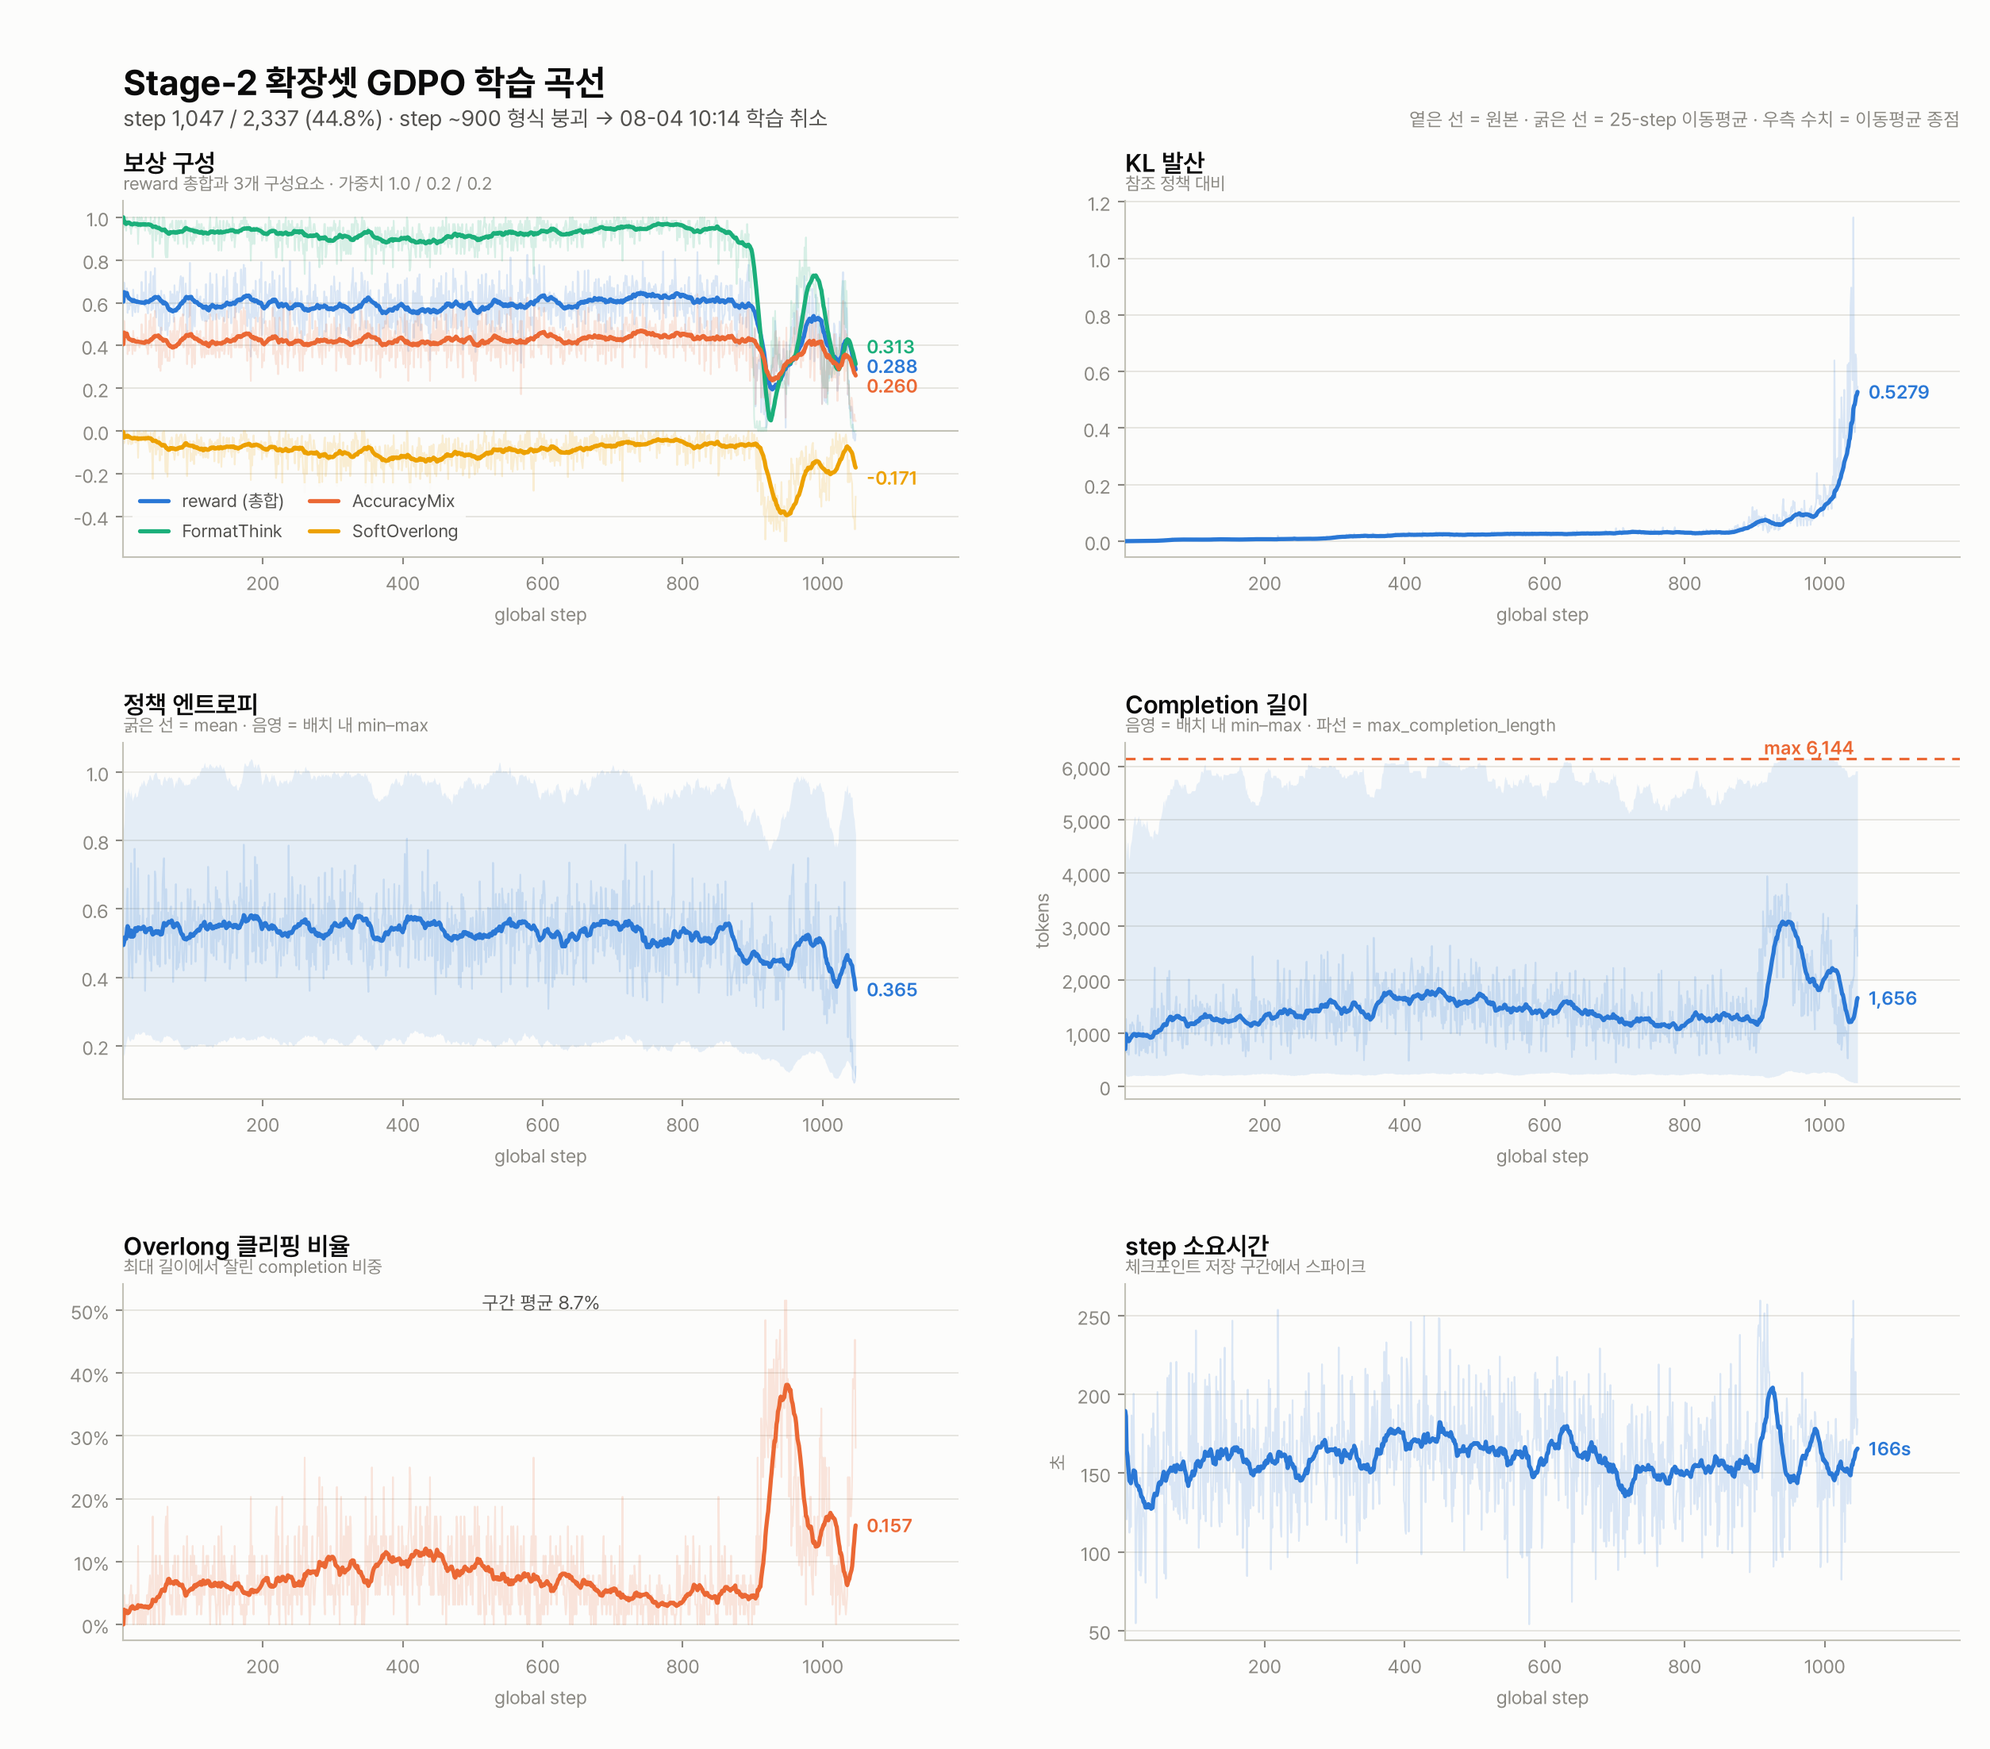
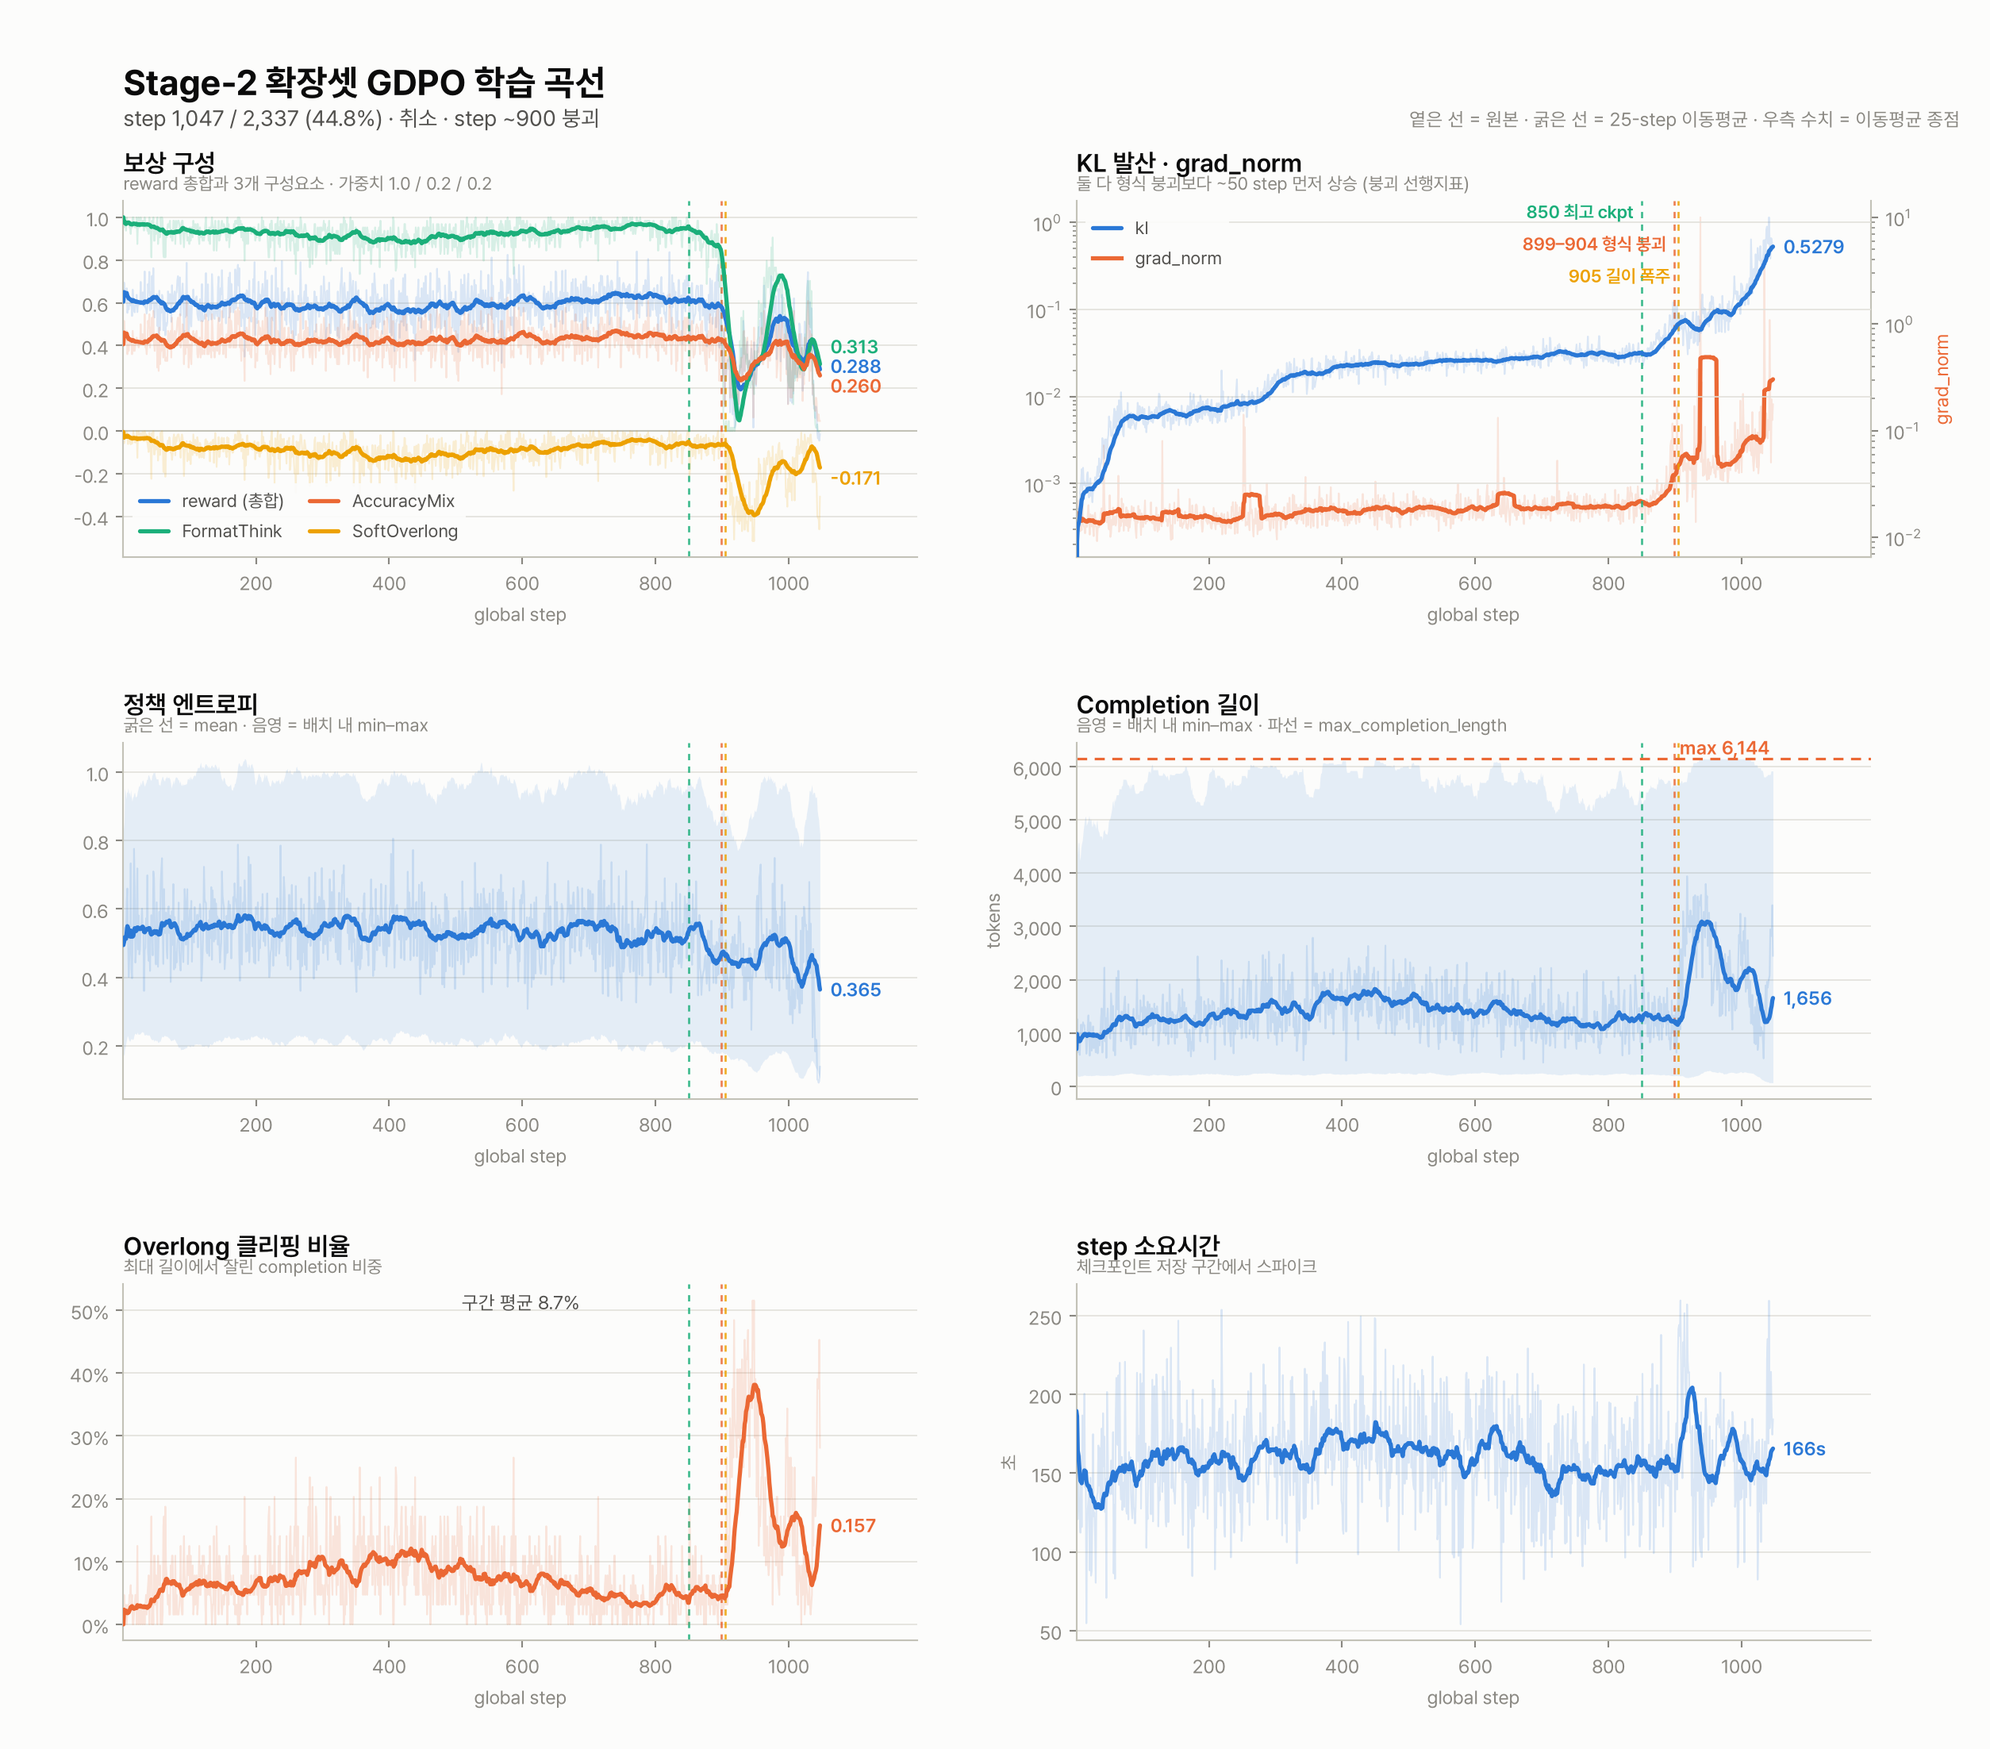
사후분석 rev.2: GDPO 무죄 판정 + 인과 순서 정정 + 학습곡선 갱신
클러스터 접근이 열려 ms-swift `scale_rewards=gdpo` 구현을 직접 판독. 그 결과
초판(rev.1)의 핵심 주장 하나가 틀렸음이 드러나 철회한다.

정정 1 — §4-2(a) "GDPO 가 형식 복원력을 2.3배 증폭" 철회
  · nanstd 는 Bessel 보정(ddof=1) → K=4 이진 σ 는 0.500/0.577 (초판은 모집단 std)
  · 마지막 줄의 배치 전역 whitening 을 놓쳤다 → 절대 크기 증폭이라는 명제 자체가 무효
  · 실제 형식:정확도 재가중은 ±15%. 무시할 수준
  · 산식 역검증 성공: step 903 그룹에 적용 → batch_std 0.86 으로 §8-i ④ 실측
    advantage [+0.12,+0.12,+0.12,-0.35] 와 정확히 일치

정정 2 — §8-i ④ '그룹 균일성 함정' 은 GDPO 고유 문제가 아니다
  · 전원 동일 보상이면 r-r̄=0 → `none` 도 형식 기여 정확히 0
  · GRPO 계열 공통 성질. 실측 표는 유효하되 원인 귀속을 바꾼다
  · gdpo 가 실제로 위험한 곳은 연속값 보상의 near-degenerate 그룹뿐
    (완전 절단 -1.0 → 1.15배 / 한계 초과 -0.02 → 57.7배)

정정 3 — §4-4 인과 순서. 길이 폭주는 원인이 아니라 결과
  · 형식 붕괴(899~904) 시점의 길이·clip 은 정상(629~1,465 토큰, clip 0.016~0.078)
  · 길이 폭주는 step 905 부터 = 형식 붕괴보다 10 step 뒤
  · overlong_filter 는 붕괴 유발(2단계)이 아니라 회복 저지(3단계)로 재배치

신규 §1-5-1 — kl 이 형식 지표보다 ~50 step 먼저 움직인다
  · 700~849 에서 0.031 로 평탄 → 850~899 +137%, 이때 FormatThink 은 아직 0.90
  · 단, KL 은 런 내내 단조 상승(6e-4 → 3e-2)하므로 절대 임계는 오작동한다.
    "직전 150-step 중앙값 대비 2배" 같은 평탄구간 이탈 규칙이어야 한다
  · rewards/FormatThink/std 는 쓰지 말 것 — 이진 보상의 std 는 평균의 결정론적 함수

plot_train_curves.py
  · KL 패널에 grad_norm twin 축 추가. 양축 로그 — grad_norm 은 0.009~10.02 로
    3 decade 를 넘어 선형축이면 step 938 스파이크에 눌려 850~900 상승이 안 보인다
  · 붕괴 사건 마커(850 최고 ckpt / 899~904 형식 붕괴 / 905 길이 폭주), --no-events 로 해제
  · twinx 눈금이 잘려 subplots_adjust right 0.985 → 0.940

Claude-Session: https://claude.ai/code/session_01WGb91PbWg2SmApVpeZFhce

diff --git a/scripts/plot_train_curves.py b/scripts/plot_train_curves.py
@@ -43,7 +43,7 @@ SUMMARY_KEYS = [
 KO = {
     "title": "Stage-2 확장셋 GDPO 학습 곡선", "rewards": "보상 구성",
     "rewards_sub": "reward 총합과 3개 구성요소 · 가중치 1.0 / 0.2 / 0.2",
-    "kl": "KL 발산", "kl_sub": "참조 정책 대비",
+    "kl": "KL 발산 · grad_norm", "kl_sub": "둘 다 형식 붕괴보다 ~50 step 먼저 상승 (붕괴 선행지표)",
     "ent": "정책 엔트로피", "ent_sub": "굵은 선 = mean · 음영 = 배치 내 min–max",
     "len": "Completion 길이", "len_sub": "음영 = 배치 내 min–max · 파선 = max_completion_length",
     "clip": "Overlong 클리핑 비율", "clip_sub": "최대 길이에서 잘린 completion 비중",
@@ -51,11 +51,12 @@ KO = {
     "total": "reward (총합)", "x": "global step", "tokens": "tokens", "sec": "초",
     "note": "옅은 선 = 원본 · 굵은 선 = {w}-step 이동평균 · 우측 수치 = 이동평균 종점",
     "mean_of": "구간 평균 {v}",
+    "ev_best": "850 최고 ckpt", "ev_break": "899–904 형식 붕괴", "ev_len": "905 길이 폭주",
 }
 EN = {
     "title": "Stage-2 expanded GDPO training curves", "rewards": "Reward components",
     "rewards_sub": "total reward and 3 components · weights 1.0 / 0.2 / 0.2",
-    "kl": "KL divergence", "kl_sub": "vs reference policy",
+    "kl": "KL divergence · grad_norm", "kl_sub": "both rise ~50 steps before format collapse (leading indicators)",
     "ent": "Policy entropy", "ent_sub": "bold = mean · band = per-batch min-max",
     "len": "Completion length", "len_sub": "band = per-batch min-max · dashed = max_completion_length",
     "clip": "Overlong clip ratio", "clip_sub": "share of completions truncated at max length",
@@ -63,6 +64,7 @@ EN = {
     "total": "reward (total)", "x": "global step", "tokens": "tokens", "sec": "sec",
     "note": "light = raw · bold = {w}-step moving average · right label = MA endpoint",
     "mean_of": "window mean {v}",
+    "ev_best": "850 best ckpt", "ev_break": "899-904 format collapse", "ev_len": "905 length runaway",
 }
 
 
@@ -125,7 +127,7 @@ def summarize(rows, n=100):
     return out
 
 
-def plot(rows, out_path, window, max_steps, status=""):
+def plot(rows, out_path, window, max_steps, status="", draw_events=True):
     import numpy as np
     import matplotlib
     matplotlib.use("Agg")
@@ -188,6 +190,26 @@ def plot(rows, out_path, window, max_steps, status=""):
         return ax.text(step[-1] * 1.015, sm[-1], fmt.format(sm[-1]), color=color,
                        fontsize=9, fontweight="600", va="center", zorder=4)
 
+    # 붕괴 사후분석(docs/stage2_run73924_postmortem.md)에서 확정된 사건 위치.
+    #  형식 붕괴(899~904)와 길이 폭주(905~)는 별개 사건이고 순서가 있다 — 같은 선으로 묶지 말 것.
+    #  899 와 905 는 6 step 차라 라벨이 겹친다 → 높이를 계단식으로 어긋내고 전부 왼쪽으로 뽑는다.
+    EVENTS = [(850, L["ev_best"], AQUA, 0.97),
+              (899, L["ev_break"], ORANGE, 0.88),
+              (905, L["ev_len"], YELLOW, 0.79)]
+
+    def events(ax, label=False):
+        """사건 위치에 세로 마커. label=True 인 패널에만 글자를 얹는다(6패널 반복 방지)."""
+        if not draw_events:
+            return
+        for x, txt, c, ly in EVENTS:
+            if not (step.min() <= x <= step.max()):
+                continue
+            ax.axvline(x, color=c, lw=1.0, ls=(0, (3, 3)), alpha=0.85, zorder=1.5)
+            if label:
+                ax.text(x - (step.max() - step.min()) * 0.012, ly, txt,
+                        transform=ax.get_xaxis_transform(), color=c, fontsize=8.5,
+                        fontweight="600", ha="right", va="center", zorder=6)
+
     def spread(ax, texts, pad_px=13):
         """끝점 라벨이 겹치면 세로로 밀어낸다.
 
@@ -208,8 +230,9 @@ def plot(rows, out_path, window, max_steps, status=""):
             t.set_position((t.get_position()[0], Ti((0, y + shift))[1]))
 
     fig, ax = plt.subplots(3, 2, figsize=(13.2, 11.6))
+    #  right 는 0.94 까지만 — KL 패널의 twinx(grad_norm) 눈금·축라벨이 그 바깥에 그려진다.
     fig.subplots_adjust(hspace=0.52, wspace=0.20, top=0.885, bottom=0.062,
-                        left=0.062, right=0.985)
+                        left=0.062, right=0.940)
 
     a = ax[0][0]; frame(a, L["rewards"], L["rewards_sub"])
     spread(a, [series(a, "reward", BLUE, L["total"]),
@@ -222,12 +245,40 @@ def plot(rows, out_path, window, max_steps, status=""):
                    facecolor=SURFACE, edgecolor="none", framealpha=0.92)
     leg.set_zorder(5)
 
-    a = ax[0][1]; frame(a, L["kl"], L["kl_sub"]); series(a, "kl", BLUE, "kl", "{:.4f}")
+    events(a)
+
+    #  KL 과 grad_norm 은 단위가 달라 축을 나눈다. 둘의 "동시 상승"이 이 패널의 요점이므로
+    #  같은 패널에 겹쳐 그리는 편이 두 패널로 나누는 것보다 읽기 쉽다.
+    #  두 축 모두 로그 — kl 은 0.0004~1.1, grad_norm 은 0.009~10.0 으로 3 decade 를 넘는다.
+    #  선형축이면 말기 스파이크(grad_norm 10.02 @ step 938)에 눌려 정작 중요한
+    #  step 850~900 구간의 2~3배 상승이 0 근처에 붙어 보이지 않는다.
+    a = ax[0][1]; frame(a, L["kl"], L["kl_sub"])
+    series(a, "kl", BLUE, "kl", "{:.4f}")
+    a.set_yscale("log")
+    a2 = a.twinx()
+    a2.set_yscale("log")
+    a2.set_xlim(a.get_xlim())
+    for s in ("top", "left"):
+        a2.spines[s].set_visible(False)
+    a2.spines["right"].set_color(BASE)
+    a2.tick_params(colors=MUTED, labelsize=9)
+    yg = arr("grad_norm")
+    a2.plot(step, yg, color=ORANGE, lw=0.8, alpha=0.16, zorder=2)
+    a2.plot(step, roll(yg), color=ORANGE, lw=2.0, zorder=3, solid_capstyle="round")
+    a2.set_ylabel("grad_norm", color=ORANGE, fontsize=9)
+    a.plot([], [], color=ORANGE, lw=2.0, label="grad_norm")     # 범례용 프록시
+    a.legend(loc="upper left", fontsize=8.5, labelcolor=INK2, handlelength=1.6,
+             frameon=True, facecolor=SURFACE, edgecolor="none", framealpha=0.92)
+    a.set_zorder(a2.get_zorder() + 1); a.patch.set_visible(False)
+    #  사건 라벨은 이 패널에만 얹는다 — 붕괴 시점(x≈0.75) 위쪽이 6패널 중 유일하게 비어 있다.
+    events(a, label=True)
 
     a = ax[1][0]; frame(a, L["ent"], L["ent_sub"])
     a.fill_between(step, roll(arr("entropy/min")), roll(arr("entropy/max")),
                    color=BLUE, alpha=0.11, lw=0, zorder=1)
     series(a, "entropy/mean", BLUE, "entropy")
+
+    events(a)
 
     a = ax[1][1]; frame(a, L["len"], L["len_sub"], L["tokens"])
     a.fill_between(step, roll(arr("completions/min_length")), roll(arr("completions/max_length")),
@@ -239,11 +290,15 @@ def plot(rows, out_path, window, max_steps, status=""):
     series(a, "completions/mean_length", BLUE, "mean_length", "{:,.0f}")
     a.yaxis.set_major_formatter(FuncFormatter(lambda v, _: f"{v:,.0f}"))
 
+    events(a)
+
     a = ax[2][0]; frame(a, L["clip"], L["clip_sub"])
     series(a, "completions/clipped_ratio", ORANGE, "clipped_ratio")
     a.yaxis.set_major_formatter(FuncFormatter(lambda v, _: f"{v * 100:.0f}%"))
     a.text(0.5, 0.93, L["mean_of"].format(v=f"{np.nanmean(arr('completions/clipped_ratio')) * 100:.1f}%"),
            transform=a.transAxes, color=INK2, fontsize=9, ha="center")
+
+    events(a)
 
     a = ax[2][1]; frame(a, L["time"], L["time_sub"], L["sec"])
     series(a, "step_time", BLUE, "step_time", "{:,.0f}s")
@@ -274,6 +329,8 @@ def main():
     ap.add_argument("--max-steps", type=int, default=0, help="제목의 진행률 분모 (0=생략)")
     ap.add_argument("--status", default="", help="부제에 덧붙일 상태 문구 (예: 취소·붕괴)")
     ap.add_argument("--no-plot", action="store_true", help="CSV·요약만 (matplotlib 불필요)")
+    ap.add_argument("--no-events", action="store_true",
+                    help="붕괴 사건 마커(850·899·905) 숨김 — 73924/73925 이외 런에 쓸 것")
     args = ap.parse_args()
 
     rows = parse_logs(args.logs)
@@ -289,7 +346,8 @@ def main():
         print(f"[csv] saved: {args.csv}")
     summarize(rows)
     if not args.no_plot:
-        plot(rows, args.out, args.window, args.max_steps, args.status)
+        plot(rows, args.out, args.window, args.max_steps, args.status,
+             draw_events=not args.no_events)
 
 
 if __name__ == "__main__":

diff --git a/docs/stage2_run73924_progress.md b/docs/stage2_run73924_progress.md
@@ -834,6 +834,25 @@ GRPO 계열은 advantage 를 **그룹 내 상대값**으로 만든다. 따라서
 그 안에서는 복원 그래디언트가 **구조적으로 존재하지 않는다**. 동시에 혼재 그룹의 복원력도 40% 약해진다.
 §8-c 에서 `reward_std` 0.074 로 관측했던 "복원력 소실"의 정체가 이것이다.
 
+> ✅ **정정 · 보강 (2026-08-06) — 이 함정은 `gdpo` 탓이 아니다.**
+> ms-swift 구현(`swift/rlhf_trainers/grpo_trainer.py:556`)을 직접 판독해 확인했다.
+>
+> **(1) 산식 확정 · 위 실측값 역검증 성공.** `gdpo` = 보상함수별 그룹 z-score(**Bessel 보정 ddof=1**,
+> `+1e-8`) → 가중합 → **배치 전역 whitening**. 위 step 903 그룹에 적용하면 `[+.10,+.10,+.10,−.30]`
+> 이고, batch_std≈0.86 으로 나누면 위에 적힌 **실측 `[+0.12,+0.12,+0.12,−0.35]` 와 정확히 일치**한다.
+>
+> **(2) `scale_rewards=none` 이어도 똑같이 일어났다.** 그룹 중심화만으로 전원 동일 보상은 `r−r̄=0` 이므로,
+> **형식 z-score = 0 은 GRPO 계열 전체의 성질**이다. 같은 그룹을 `none` 으로 계산하면
+> `[+0.05, +0.05, +0.05, −0.15]` — **부호도 구조도 동일**하고 크기만 상대적으로 15% 작다.
+> 즉 "형식을 어긴 짧은 출력 3개가 양수 advantage 를 받는다"는 병리는 **레시피 선택과 무관하게 발생했다.**
+>
+> **(3) `gdpo` 가 실제로 위험한 곳은 따로 있다** — `SoftOverlong` 처럼 **연속값** 보상이 그룹 안에서
+> 거의 균일할 때다. 절단이 −1.0(완전 절단)이면 gdpo 기여는 `none` 대비 **1.15배**뿐이지만,
+> 한계 초과(−0.02)면 σ 가 작아져 **57.7배**가 된다. 위 step 903 그룹은 −1.0 이었으므로 **1.15배 경우**다.
+>
+> ⇒ ④ 의 메커니즘 서술과 실측 표는 **그대로 유효**하다. 다만 그 책임을 `scale_rewards=gdpo` 로
+> 돌리면 안 된다. 상세 = [`stage2_run73924_postmortem.md`](stage2_run73924_postmortem.md) §4-2(a).
+
 #### ⑤ `num_generations` 재평가 — 기각했다가 되살아났다
 
 §8-e 에서 "`num_generations=4` 부족" 가설을 `frac_reward_zero_std` **0.0106** 을 근거로 기각했다.
